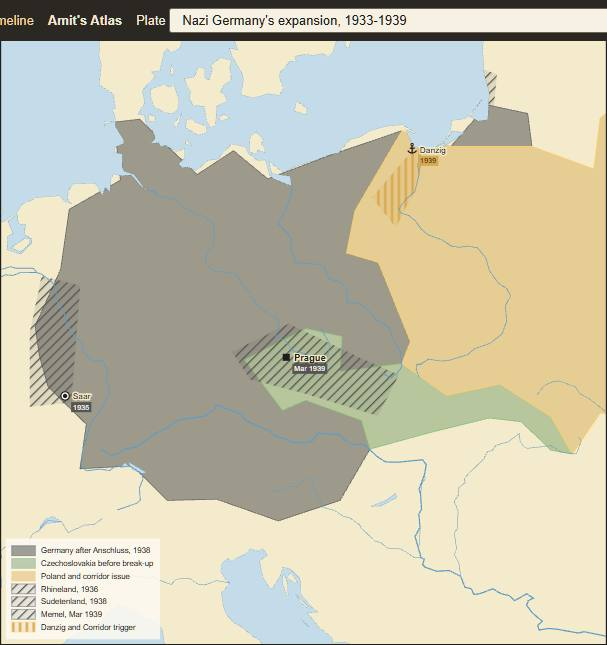
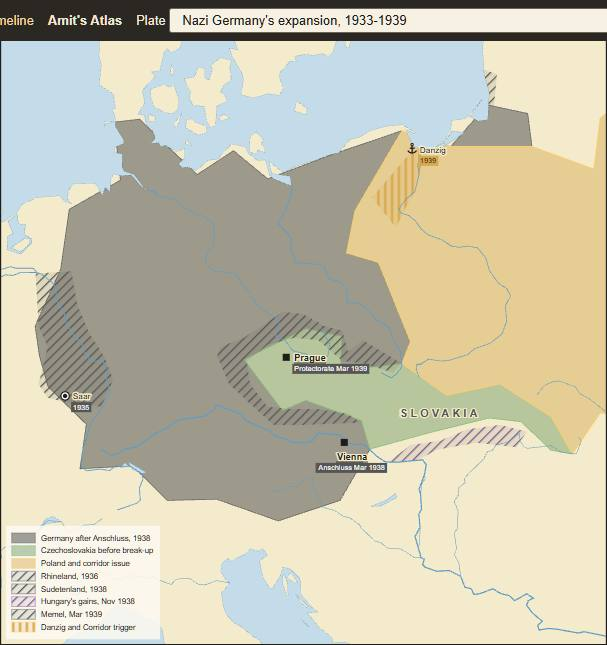
Fix round seven borders, zones and labels
Copilot-Session: 37f2f47f-8b63-49cd-b8ce-cded564ac449

diff --git a/atlas/plates/europe-alliances-road-to-war-1933-1939.js b/atlas/plates/europe-alliances-road-to-war-1933-1939.js
@@ -1,2 +1,2 @@
 // Penguin Atlas Vol. 2 round 7.
-window.PLATES["europe-alliances-road-to-war-1933-1939"] = {"id":"europe-alliances-road-to-war-1933-1939","title":"Europe's alliances and the road to war, 1933-1939","head":"Inter-war world / Road to war","folio":"164-165","viewer":"interwar2/1939/ch-road-to-war","figures":[{"caption":"Alliance systems and the 1939 crisis","share":0.75,"extent":[[-5,42],[32,58]],"projection":"mercator","layers":[{"id":"axis","type":"area","hist":{"year":1938,"names":["Germany","Italy"]},"colour":"#555555","legend":"Axis core, 1936-39"},{"id":"little-entente","type":"area","polygon":[[14.2,48.5],[20.8,50],[23.4,46.2],[20,43.8],[15,45.5],[14.2,48.5]],"smooth":false,"clipToLand":true,"pattern":"hatch","colour":"#4c78a8","legend":"Little Entente / status quo bloc"},{"id":"france","type":"area","hist":{"year":1938,"names":["France"]},"colour":"#4c78a8","opacity":0.45,"legend":"France"},{"id":"poland","type":"area","hist":{"year":1938,"names":["Poland"]},"colour":"#d8a84f","opacity":0.55,"legend":"Poland guaranteed, Mar 1939"},{"id":"soviet-sphere","type":"area","polygon":[[20.5,54.5],[27.5,55.7],[28,51],[24,49],[20.5,50],[20.5,54.5]],"smooth":false,"clipToLand":true,"pattern":"stripe","colour":"#8c3b3b","legend":"Soviet sphere in secret protocol"},{"id":"protocol-line","type":"boundary","style":"dashed","path":[[20.5,55],[23.7,52.1],[24,49]],"colour":"#8c3b3b","legend":"Molotov-Ribbentrop protocol line"},{"id":"rome-berlin","type":"arrow","colour":"#555555","path":[[12.5,41.9],[13.4,52.52]]},{"id":"franco-soviet","type":"arrow","colour":"#4c78a8","path":[[2.35,48.86],[37.62,55.75]],"label":"Franco-Soviet pact 1935"},{"id":"munich","type":"point","symbol":"treaty","at":[11.58,48.14],"name":"Munich","tag":{"text":"1938","colour":"#666"}},{"id":"guarantee","type":"arrow","colour":"#4c78a8","path":[[-0.13,51.51],[21.01,52.23]],"label":"guarantee to Poland"},{"id":"mrp","type":"point","symbol":"treaty","at":[37.62,55.75],"name":"Molotov-Ribbentrop","tag":{"text":"Aug 1939","colour":"#8c3b3b"}},{"id":"danzig","type":"point","symbol":"port","at":[18.65,54.35],"name":"Danzig"}],"legend":{"position":"bottom-left","columns":1}},{"caption":"1939 crisis sequence","kind":"diagram","share":0.25,"diagram":{"height":0.56,"nodes":[{"id":"a1","label":"Mar\nPrague","x":0.15,"y":0.35,"w":0.18,"h":0.14,"colour":"#555555"},{"id":"a2","label":"Mar\nPoland guarantee","x":0.4,"y":0.35,"w":0.24,"h":0.14,"colour":"#4c78a8"},{"id":"a3","label":"Aug\nNazi-Soviet pact","x":0.68,"y":0.35,"w":0.26,"h":0.14,"colour":"#8c3b3b"},{"id":"a4","label":"Sep\nwar","x":0.9,"y":0.35,"w":0.14,"h":0.14,"colour":"#555555"}],"arrows":[]}}],"text":{"intro":"Axis alignment, the Little Entente, the Franco-Soviet pact, Munich, the guarantee to Poland and the Nazi-Soviet pact with its secret protocol turn crisis into war.","sections":[{"heading":"Road to war","entries":[{"date":"1933-1939","text":"Axis alignment, the Little Entente, the Franco-Soviet pact, Munich, the guarantee to Poland and the Nazi-Soviet pact with its secret protocol turn crisis into war.","refs":["axis","little-entente","france","poland","soviet-sphere","protocol-line","rome-berlin","franco-soviet","munich","guarantee","mrp","danzig","a1","a2","a3","a4"]}]}]},"sources":["Penguin Atlas Vol. 2 pp. 164-165; historical-basemaps world_1938. Soviet sphere and Little Entente are hard-edged schematic polygons."]};
+window.PLATES["europe-alliances-road-to-war-1933-1939"] = {"id":"europe-alliances-road-to-war-1933-1939","title":"Europe's alliances and the road to war, 1933-1939","head":"Inter-war world / Road to war","folio":"164-165","viewer":"interwar2/1939/ch-road-to-war","figures":[{"caption":"Alliance systems and the 1939 crisis","share":0.75,"extent":[[-6,40],[40,64]],"projection":"mercator","layers":[{"id":"axis","type":"area","hist":{"year":1938,"names":["Germany","Italy"]},"colour":"#555555","legend":"Axis core, 1936-39"},{"id":"little-entente","type":"area","pattern":"hatch","colour":"#4c78a8","legend":"Little Entente","hist":{"year":1938,"names":["Czechoslovakia","Romania","Yugoslavia"]}},{"id":"france","type":"area","hist":{"year":1938,"names":["France"]},"colour":"#4c78a8","opacity":0.45,"legend":"France"},{"id":"poland","type":"area","hist":{"year":1938,"names":["Poland"]},"colour":"#d8a84f","opacity":0.55,"legend":"Poland guaranteed, Mar 1939"},{"id":"soviet-sphere","type":"area","polygon":[[21.6,53.45],[21.9,53.2],[21.1,52.7],[21,52.25],[21.4,51.6],[21.75,50.7],[22.3,50.4],[22.8,49.8],[22.6,49.1],[24,48.6],[25.3,48],[26.6,48.3],[27.4,50.5],[27,51.6],[27.5,53.5],[26.6,55.2],[23.5,54],[22.8,54.4],[21.6,53.45]],"smooth":false,"clipToLand":true,"pattern":"stripe","colour":"#8c3b3b","legend":"Soviet sphere, secret protocol"},{"id":"soviet-sphere-north","type":"area","hist":{"year":1938,"names":["Finland","Estonia","Latvia"]},"pattern":"stripe","colour":"#8c3b3b"},{"id":"bessarabia","type":"area","polygon":[[26.6,48.3],[28.2,48.5],[29.2,47.9],[30,46.5],[29.7,45.3],[28.2,45.5],[28,46.6],[27.2,47.8],[26.6,48.3]],"smooth":false,"clipToLand":true,"pattern":"stripe","colour":"#8c3b3b"},{"id":"protocol-line","type":"boundary","style":"dashed","path":[[21.9,53.2],[21.1,52.7],[21,52.25],[21.4,51.6],[21.75,50.7],[22.3,50.4],[22.8,49.8],[22.6,49.1]],"colour":"#8c3b3b","legend":"Molotov-Ribbentrop protocol line"},{"id":"munich","type":"point","symbol":"treaty","at":[11.58,48.14],"name":"Munich","tag":{"text":"1938","colour":"#666"},"labelPos":"e"},{"id":"danzig","type":"point","symbol":"port","at":[18.65,54.35],"name":"Danzig","labelPos":"n"},{"id":"rome","type":"point","symbol":"capital","at":[12.5,41.9],"name":"Rome","labelPos":"e","tag":{"text":"Axis Oct 1936","colour":"#555555"}},{"id":"paris","type":"point","symbol":"capital","at":[2.35,48.86],"name":"Paris","labelPos":"e","tag":{"text":"Franco-Soviet pact 1935","colour":"#4c78a8"}},{"id":"london","type":"point","symbol":"capital","at":[-0.13,51.51],"name":"London","labelPos":"e","tag":{"text":"guarantee Mar 1939","colour":"#4c78a8"}},{"id":"moscow","type":"point","symbol":"treaty","at":[37.62,55.75],"name":"Moscow","labelPos":"w","tag":{"text":"Nazi-Soviet pact Aug 1939","colour":"#8c3b3b"}}],"legend":{"position":"bottom-right","columns":1}},{"caption":"1939 crisis sequence","kind":"diagram","share":0.25,"diagram":{"height":0.56,"nodes":[{"id":"a1","label":"Mar\nPrague","x":0.15,"y":0.35,"w":0.18,"h":0.14,"colour":"#555555"},{"id":"a2","label":"Mar\nPoland guarantee","x":0.4,"y":0.35,"w":0.24,"h":0.14,"colour":"#4c78a8"},{"id":"a3","label":"Aug\nNazi-Soviet pact","x":0.68,"y":0.35,"w":0.26,"h":0.14,"colour":"#8c3b3b"},{"id":"a4","label":"Sep\nwar","x":0.9,"y":0.35,"w":0.14,"h":0.14,"colour":"#555555"}],"arrows":[]}}],"text":{"intro":"Axis alignment, the Little Entente, the Franco-Soviet pact, Munich, the guarantee to Poland and the Nazi-Soviet pact with its secret protocol turn crisis into war.","sections":[{"heading":"Road to war","entries":[{"date":"1933-1939","text":"Axis alignment, the Little Entente, the Franco-Soviet pact, Munich, the guarantee to Poland and the Nazi-Soviet pact with its secret protocol turn crisis into war.","refs":["axis","little-entente","france","poland","soviet-sphere","protocol-line","munich","danzig","a1","a2","a3","a4"]}]}]},"sources":["Penguin Atlas Vol. 2 pp. 164-165; historical-basemaps world_1938. Soviet sphere and Little Entente are hard-edged schematic polygons."]};

diff --git a/atlas/plates/nazi-germany-expansion-1933-1939.js b/atlas/plates/nazi-germany-expansion-1933-1939.js
@@ -1,2 +1,2 @@
 // Penguin Atlas Vol. 2 round 7.
-window.PLATES["nazi-germany-expansion-1933-1939"] = {"id":"nazi-germany-expansion-1933-1939","title":"Nazi Germany's expansion, 1933-1939","head":"Inter-war world / Germany","folio":"194-197","viewer":"interwar2/1938/ch-nazi-expansion","figures":[{"caption":"Stepwise expansion before the Polish crisis","share":0.75,"extent":[[5,45],[25,56]],"projection":"mercator","layers":[{"id":"germany-1938","type":"area","hist":{"year":1938,"names":["Germany"]},"colour":"#555555","legend":"Germany after Anschluss, 1938"},{"id":"czechoslovakia","type":"area","hist":{"year":1938,"names":["Czechoslovakia"]},"colour":"#6f9a63","opacity":0.45,"legend":"Czechoslovakia before break-up"},{"id":"poland","type":"area","hist":{"year":1938,"names":["Poland"]},"colour":"#d8a84f","opacity":0.45,"legend":"Poland and corridor issue"},{"id":"saar","type":"point","symbol":"treaty","at":[6.99,49.24],"name":"Saar","tag":{"text":"1935","colour":"#555555"}},{"id":"rhineland","type":"area","polygon":[[5.8,49],[7.2,49.1],[7.5,51.6],[6.2,51.8],[5.8,50.6],[5.8,49]],"smooth":false,"clipToLand":true,"pattern":"hatch","colour":"#555555","legend":"Rhineland, 1936"},{"id":"sudeten","type":"area","polygon":[[12.6,50.2],[14.5,50.8],[16.8,50.1],[18.2,49.7],[17.5,48.8],[15,49.3],[13.2,49.6],[12.6,50.2]],"smooth":false,"clipToLand":true,"pattern":"hatch","colour":"#555555","legend":"Sudetenland, 1938"},{"id":"memel","type":"area","polygon":[[20.9,55.2],[21.4,55.2],[21.5,55.8],[21,55.9],[20.9,55.2]],"smooth":false,"clipToLand":true,"pattern":"hatch","colour":"#555555","legend":"Memel, Mar 1939"},{"id":"corridor","type":"area","polygon":[[17.3,53.4],[19.2,54.7],[18.8,53.6],[18.1,52.8],[17.3,53.4]],"smooth":false,"clipToLand":true,"pattern":"stripe","colour":"#d8a84f","legend":"Danzig and Corridor trigger"},{"id":"prague","type":"point","symbol":"capital","at":[14.42,50.08],"name":"Prague","tag":{"text":"Mar 1939","colour":"#555555"}},{"id":"danzig","type":"point","symbol":"port","at":[18.65,54.35],"name":"Danzig","tag":{"text":"1939","colour":"#d8a84f"}}],"legend":{"position":"bottom-left","columns":1}},{"caption":"Escalation ladder","kind":"diagram","share":0.25,"diagram":{"height":0.56,"nodes":[{"id":"n1","label":"1935\nSaar","x":0.12,"y":0.35,"w":0.16,"h":0.14,"colour":"#555555"},{"id":"n2","label":"1936\nRhineland","x":0.32,"y":0.35,"w":0.18,"h":0.14,"colour":"#555555"},{"id":"n3","label":"Mar 1938\nAnschluss","x":0.54,"y":0.35,"w":0.2,"h":0.14,"colour":"#555555"},{"id":"n4","label":"1938-39\nCzechoslovakia","x":0.8,"y":0.35,"w":0.24,"h":0.14,"colour":"#555555"}],"arrows":[]}}],"text":{"intro":"Saar, Rhineland, Anschluss, Sudetenland, Prague, Memel and the Danzig/Corridor trigger show expansion step by step.","sections":[{"heading":"Germany","entries":[{"date":"1933-1939","text":"Saar, Rhineland, Anschluss, Sudetenland, Prague, Memel and the Danzig/Corridor trigger show expansion step by step.","refs":["germany-1938","czechoslovakia","poland","saar","rhineland","sudeten","memel","corridor","prague","danzig","n1","n2","n3","n4"]}]}]},"sources":["Penguin Atlas Vol. 2 pp. 194-197; historical-basemaps world_1938 checked for Germany, Czechoslovakia and Poland."]};
+window.PLATES["nazi-germany-expansion-1933-1939"] = {"id":"nazi-germany-expansion-1933-1939","title":"Nazi Germany's expansion, 1933-1939","head":"Inter-war world / Germany","folio":"194-197","viewer":"interwar2/1938/ch-nazi-expansion","figures":[{"caption":"Stepwise expansion before the Polish crisis","share":0.75,"extent":[[5,45],[25,56]],"projection":"mercator","layers":[{"id":"germany-1938","type":"area","hist":{"year":1938,"names":["Germany"]},"colour":"#555555","legend":"Germany after Anschluss, 1938"},{"id":"czechoslovakia","type":"area","hist":{"year":1938,"names":["Czechoslovakia"]},"colour":"#6f9a63","opacity":0.45,"legend":"Czechoslovakia before break-up"},{"id":"poland","type":"area","hist":{"year":1938,"names":["Poland"]},"colour":"#d8a84f","opacity":0.45,"legend":"Poland and corridor issue"},{"id":"saar","type":"point","symbol":"treaty","at":[6.99,49.24],"name":"Saar","tag":{"text":"1935","colour":"#555555"}},{"id":"rhineland","type":"area","polygon":[[6.4,49.2],[7,49.1],[8.2,49],[8.6,49.6],[8.3,50.1],[7.8,50.6],[7.4,51.2],[7.2,51.9],[6,51.85],[6.1,50.75],[6.4,50.3],[6.1,49.5],[6.4,49.2]],"smooth":false,"clipToLand":true,"pattern":"hatch","colour":"#555555","legend":"Rhineland, 1936"},{"id":"sudeten","type":"area","polygon":[[16.9,48.65],[15,48.6],[14,48.6],[13.4,48.95],[12.5,49.5],[12.1,50.1],[12.2,50.3],[13,50.5],[14.3,51.05],[15,51],[15.7,50.75],[16.3,50.65],[16.5,50.2],[17,50.45],[17.9,50.1],[18.3,49.95],[18,49.75],[17,49.95],[16.3,50],[15.5,50.45],[14.7,50.5],[13.8,50.35],[13.1,50],[13.2,49.5],[13.8,49],[14.6,48.95],[15.5,48.95],[16.5,48.85],[16.9,48.65]],"smooth":false,"clipToLand":true,"pattern":"hatch","colour":"#555555","legend":"Sudetenland, 1938"},{"id":"vienna-award","type":"area","polygon":[[17.8,47.75],[18.6,48.15],[19.6,48.25],[20.5,48.5],[21.6,48.6],[22.5,48.45],[22.15,48.1],[20.8,48.2],[19.5,48.05],[18.8,47.8],[17.8,47.75]],"smooth":false,"clipToLand":true,"pattern":"hatch","colour":"#7a5a8c","legend":"Hungary's gains, Nov 1938"},{"id":"memel","type":"area","polygon":[[20.9,55.2],[21.4,55.2],[21.5,55.8],[21,55.9],[20.9,55.2]],"smooth":false,"clipToLand":true,"pattern":"hatch","colour":"#555555","legend":"Memel, Mar 1939"},{"id":"corridor","type":"area","polygon":[[17.3,53.4],[19.2,54.7],[18.8,53.6],[18.1,52.8],[17.3,53.4]],"smooth":false,"clipToLand":true,"pattern":"stripe","colour":"#d8a84f","legend":"Danzig and Corridor trigger"},{"id":"prague","type":"point","symbol":"capital","at":[14.42,50.08],"name":"Prague","tag":{"text":"Protectorate Mar 1939","colour":"#555555"}},{"id":"danzig","type":"point","symbol":"port","at":[18.65,54.35],"name":"Danzig","tag":{"text":"1939","colour":"#d8a84f"}},{"id":"vienna","type":"point","symbol":"capital","at":[16.37,48.21],"name":"Vienna","labelPos":"s","tag":{"text":"Anschluss Mar 1938","colour":"#555555"}},{"id":"slovakia","type":"label","style":"region","text":"Slovakia","at":[19.6,48.85],"colour":"#555"}],"legend":{"position":"bottom-left","columns":1}},{"caption":"Escalation ladder","kind":"diagram","share":0.25,"diagram":{"height":0.56,"nodes":[{"id":"n1","label":"1935\nSaar","x":0.12,"y":0.35,"w":0.16,"h":0.14,"colour":"#555555"},{"id":"n2","label":"1936\nRhineland","x":0.32,"y":0.35,"w":0.18,"h":0.14,"colour":"#555555"},{"id":"n3","label":"Mar 1938\nAnschluss","x":0.54,"y":0.35,"w":0.2,"h":0.14,"colour":"#555555"},{"id":"n4","label":"1938-39\nCzechoslovakia","x":0.8,"y":0.35,"w":0.24,"h":0.14,"colour":"#555555"}],"arrows":[]}}],"text":{"intro":"Saar, Rhineland, Anschluss, Sudetenland, Prague, Memel and the Danzig/Corridor trigger show expansion step by step.","sections":[{"heading":"Germany","entries":[{"date":"1933-1939","text":"Saar, Rhineland, Anschluss, Sudetenland, Prague, Memel and the Danzig/Corridor trigger show expansion step by step.","refs":["germany-1938","czechoslovakia","poland","saar","rhineland","sudeten","memel","corridor","prague","danzig","n1","n2","n3","n4"]}]}]},"sources":["Penguin Atlas Vol. 2 pp. 194-197; historical-basemaps world_1938 checked for Germany, Czechoslovakia and Poland."]};

diff --git a/atlas/plates/japan-expansion-1931-1939.js b/atlas/plates/japan-expansion-1931-1939.js
@@ -1,2 +1,2 @@
 // Penguin Atlas Vol. 2 round 7.
-window.PLATES["japan-expansion-1931-1939"] = {"id":"japan-expansion-1931-1939","title":"Japan's expansion, 1931-1939","head":"Inter-war world / Japan","folio":"172-175","viewer":"interwar2/1937/ch-japan-expansion","figures":[{"caption":"Manchukuo, China war and the Soviet border","share":0.75,"extent":[[103,18],[146,54]],"projection":"naturalEarth","layers":[{"id":"japan-empire","type":"area","hist":{"year":1938,"names":["Empire of Japan"]},"colour":"#c98b2c","legend":"Japanese Empire / Manchukuo by 1938"},{"id":"jehol","type":"area","polygon":[[116.2,40.2],[119.5,42.5],[121.5,41.3],[119.2,39.8],[116.2,40.2]],"smooth":false,"clipToLand":true,"pattern":"hatch","colour":"#c98b2c","legend":"Jehol occupied, 1933"},{"id":"coastal-occupation","type":"area","polygon":[[117,39],[121.5,40],[122,37],[121,31],[119,29],[121,25],[118,23],[114,23.5],[116,31],[116,36],[117,39]],"smooth":false,"clipToLand":true,"pattern":"stripe","colour":"#c98b2c","legend":"Coastal occupation by 1938"},{"id":"long-march","type":"route","style":"dashed","colour":"#8c3b3b","path":[[116.03,25.89],[111,28],[105,32],[109.49,36.6]],"label":"Long March 1934-35"},{"id":"marco-polo","type":"point","symbol":"battle","at":[116.41,39.9],"name":"Marco Polo Bridge","tag":{"text":"Jul 1937","colour":"#c98b2c"}},{"id":"nanjing","type":"point","symbol":"battle","at":[118.8,32.06],"name":"Nanjing","tag":{"text":"Dec 1937","colour":"#c98b2c"}},{"id":"shanghai","type":"point","symbol":"battle","at":[121.47,31.23],"name":"Shanghai"},{"id":"wuhan","type":"point","symbol":"battle","at":[114.31,30.59],"name":"Wuhan"},{"id":"nomonhan","type":"point","symbol":"battle","at":[118.6,47.72],"name":"Khalkhin Gol","tag":{"text":"1939","colour":"#8c3b3b"}},{"id":"push","type":"arrow","colour":"#c98b2c","path":[[123.43,41.8],[116.41,39.9],[118.8,32.06],[114.31,30.59]],"label":"Japanese advance"}],"legend":{"position":"bottom-left","columns":1}},{"caption":"Escalation in East Asia","kind":"diagram","share":0.25,"diagram":{"height":0.56,"nodes":[{"id":"j1","label":"1931\nMukden","x":0.14,"y":0.35,"w":0.18,"h":0.14,"colour":"#c98b2c"},{"id":"j2","label":"1932\nManchukuo","x":0.36,"y":0.35,"w":0.2,"h":0.14,"colour":"#c98b2c"},{"id":"j3","label":"1937\nChina war","x":0.6,"y":0.35,"w":0.2,"h":0.14,"colour":"#c98b2c"},{"id":"j4","label":"1939\nKhalkhin Gol","x":0.84,"y":0.35,"w":0.22,"h":0.14,"colour":"#8c3b3b"}],"arrows":[]}}],"text":{"intro":"Japan seizes Manchuria, adds Jehol, pushes down the Chinese coast, while the Long March relocates the Communists and Khalkhin Gol checks Japan against the USSR.","sections":[{"heading":"Japan","entries":[{"date":"1931-1939","text":"Japan seizes Manchuria, adds Jehol, pushes down the Chinese coast, while the Long March relocates the Communists and Khalkhin Gol checks Japan against the USSR.","refs":["japan-empire","jehol","coastal-occupation","long-march","marco-polo","nanjing","shanghai","wuhan","nomonhan","push","j1","j2","j3","j4"]}]}]},"sources":["Penguin Atlas Vol. 2 pp. 172-175; historical-basemaps world_1938. Coastal occupation and Jehol are hard-edged schematic clipped polygons."]};
+window.PLATES["japan-expansion-1931-1939"] = {"id":"japan-expansion-1931-1939","title":"Japan's expansion, 1931-1939","head":"Inter-war world / Japan","folio":"172-175","viewer":"interwar2/1937/ch-japan-expansion","figures":[{"caption":"Manchukuo, China war and the Soviet border","share":0.75,"extent":[[98,18],[146,54]],"projection":"naturalEarth","layers":[{"id":"japan-empire","type":"area","hist":{"year":1938,"names":["Empire of Japan"]},"colour":"#c98b2c","legend":"Japanese Empire / Manchukuo by 1938"},{"id":"jehol","type":"area","polygon":[[116.2,40.2],[119.5,42.5],[121.5,41.3],[119.2,39.8],[116.2,40.2]],"smooth":false,"clipToLand":true,"pattern":"hatch","colour":"#c98b2c","legend":"Jehol occupied, 1933"},{"id":"coastal-occupation","type":"area","polygon":[[114,41],[119.5,40],[122.5,37.5],[120.5,36],[119.2,35],[117.5,34.3],[116.5,34.5],[114.5,34.7],[113,35.5],[112,37.5],[112.5,39],[114,41]],"smooth":false,"clipToLand":true,"pattern":"stripe","colour":"#c98b2c","legend":"Occupied China by end 1938"},{"id":"occ-yangtze","type":"area","polygon":[[117.5,34.3],[119.2,35],[120.5,33],[121.9,31.7],[121.8,30.8],[120.5,30.2],[119,30.5],[117,30.2],[115.5,29.8],[114,30],[113.5,30.7],[114.5,31.3],[116.5,32.5],[117.5,34.3]],"smooth":false,"clipToLand":true,"pattern":"stripe","colour":"#c98b2c"},{"id":"occ-canton","type":"area","polygon":[[112.8,23.6],[113.8,23.5],[114.3,22.6],[113.6,22.2],[112.9,22.6],[112.8,23.6]],"smooth":false,"clipToLand":true,"pattern":"stripe","colour":"#c98b2c"},{"id":"long-march","type":"route","style":"dashed","colour":"#8c3b3b","path":[[116.03,25.89],[110.5,25.5],[106.93,27.7],[103,26.5],[102.23,29.92],[103.5,33.5],[106,35.5],[109.49,36.6]],"label":"Long March 1934-35"},{"id":"marco-polo","type":"point","symbol":"battle","at":[116.41,39.9],"name":"Marco Polo Bridge","tag":{"text":"Jul 1937","colour":"#c98b2c"}},{"id":"nanjing","type":"point","symbol":"battle","at":[118.8,32.06],"name":"Nanjing","tag":{"text":"Dec 1937","colour":"#c98b2c"},"labelPos":"w"},{"id":"shanghai","type":"point","symbol":"battle","at":[121.47,31.23],"name":"Shanghai"},{"id":"wuhan","type":"point","symbol":"battle","at":[114.31,30.59],"name":"Wuhan"},{"id":"nomonhan","type":"point","symbol":"battle","at":[118.6,47.72],"name":"Khalkhin Gol","tag":{"text":"1939","colour":"#8c3b3b"}},{"id":"push","type":"arrow","colour":"#c98b2c","path":[[123.43,41.8],[116.41,39.9],[118.8,32.06],[114.31,30.59]],"label":"Japanese advance"},{"id":"yanan","type":"point","symbol":"city","at":[109.49,36.6],"name":"Yan'an","labelPos":"e"}],"legend":{"position":"bottom-left","columns":1}},{"caption":"Escalation in East Asia","kind":"diagram","share":0.25,"diagram":{"height":0.56,"nodes":[{"id":"j1","label":"1931\nMukden","x":0.14,"y":0.35,"w":0.18,"h":0.14,"colour":"#c98b2c"},{"id":"j2","label":"1932\nManchukuo","x":0.36,"y":0.35,"w":0.2,"h":0.14,"colour":"#c98b2c"},{"id":"j3","label":"1937\nChina war","x":0.6,"y":0.35,"w":0.2,"h":0.14,"colour":"#c98b2c"},{"id":"j4","label":"1939\nKhalkhin Gol","x":0.84,"y":0.35,"w":0.22,"h":0.14,"colour":"#8c3b3b"}],"arrows":[]}}],"text":{"intro":"Japan seizes Manchuria, adds Jehol, pushes down the Chinese coast, while the Long March relocates the Communists and Khalkhin Gol checks Japan against the USSR.","sections":[{"heading":"Japan","entries":[{"date":"1931-1939","text":"Japan seizes Manchuria, adds Jehol, pushes down the Chinese coast, while the Long March relocates the Communists and Khalkhin Gol checks Japan against the USSR.","refs":["japan-empire","jehol","coastal-occupation","long-march","marco-polo","nanjing","shanghai","wuhan","nomonhan","push","j1","j2","j3","j4"]}]}]},"sources":["Penguin Atlas Vol. 2 pp. 172-175; historical-basemaps world_1938. Coastal occupation and Jehol are hard-edged schematic clipped polygons."]};

diff --git a/atlas/plates/spanish-civil-war-1936-1939.js b/atlas/plates/spanish-civil-war-1936-1939.js
@@ -1,2 +1,2 @@
 // Penguin Atlas Vol. 2 round 7.
-window.PLATES["spanish-civil-war-1936-1939"] = {"id":"spanish-civil-war-1936-1939","title":"The Spanish Civil War, 1936-1939","head":"Inter-war world / Spain","folio":"160-161","viewer":"interwar2/1937/ch-spanish-civil-war","figures":[{"caption":"Civil war zones and foreign intervention","share":0.75,"extent":[[-10,35],[4,44]],"projection":"mercator","layers":[{"id":"spain","type":"area","hist":{"year":1938,"names":["Spain"]},"colour":"#d8a84f","opacity":0.25,"legend":"Spain, 1938 context"},{"id":"nationalist-1936","type":"area","polygon":[[-9,36.5],[-6,43.5],[-3.5,43.4],[-5.6,41.8],[-6,38],[-9,36.5],[2.5,39],[0.5,41.7],[3,42.5],[2.6,39]],"smooth":false,"clipToLand":true,"colour":"#8c5a3b","legend":"Nationalist zones, July 1936"},{"id":"republic-1938","type":"area","polygon":[[-4,39.5],[-2,41.5],[1.8,42],[2.8,40.8],[0.5,39.5],[-1.5,38.5],[-4,39.5]],"smooth":false,"clipToLand":true,"colour":"#d8a84f","legend":"Republican zone by 1938"},{"id":"madrid","type":"point","symbol":"battle","at":[-3.7,40.42],"name":"Madrid","labelPos":"e"},{"id":"guernica","type":"point","symbol":"battle","at":[-2.68,43.32],"name":"Guernica","tag":{"text":"Condor Legion 1937","colour":"#555555"}},{"id":"ebro","type":"point","symbol":"battle","at":[0.49,41.05],"name":"Ebro"},{"id":"barcelona","type":"point","symbol":"large-city","at":[2.17,41.38],"name":"Barcelona","tag":{"text":"Jan 1939","colour":"#8c5a3b"}},{"id":"macpaps","type":"point","symbol":"battle","at":[-3.7,40.42],"name":"Mac-Paps","labelPos":"w","tag":{"text":"Canada","colour":"#b22d2d"}}],"legend":{"position":"bottom-left","columns":1}},{"caption":"Foreign intervention","kind":"diagram","share":0.25,"diagram":{"height":0.56,"nodes":[{"id":"rebels","label":"Nationalists\nFranco","x":0.2,"y":0.35,"w":0.22,"h":0.14,"colour":"#8c5a3b"},{"id":"axishelp","label":"Germany + Italy\naircraft / troops","x":0.5,"y":0.35,"w":0.25,"h":0.14,"colour":"#555555"},{"id":"republic","label":"Republic\nBrigades + USSR","x":0.8,"y":0.35,"w":0.24,"h":0.14,"colour":"#d8a84f"}],"arrows":[]}}],"text":{"intro":"Nationalist zones expand as Madrid, Guernica, the Ebro and Barcelona mark the war; Germany, Italy, Soviet aid, International Brigades and the Mackenzie-Papineau Battalion make it international.","sections":[{"heading":"Spain","entries":[{"date":"1936-1939","text":"Nationalist zones expand as Madrid, Guernica, the Ebro and Barcelona mark the war; Germany, Italy, Soviet aid, International Brigades and the Mackenzie-Papineau Battalion make it international.","refs":["spain","nationalist-1936","republic-1938","madrid","guernica","ebro","barcelona","macpaps","rebels","axishelp","republic"]}]}]},"sources":["Penguin Atlas Vol. 2 pp. 160-161; historical-basemaps world_1938. Front zones are schematic hard polygons."]};
+window.PLATES["spanish-civil-war-1936-1939"] = {"id":"spanish-civil-war-1936-1939","title":"The Spanish Civil War, 1936-1939","head":"Inter-war world / Spain","folio":"160-161","viewer":"interwar2/1937/ch-spanish-civil-war","figures":[{"caption":"Civil war zones and foreign intervention","share":0.75,"extent":[[-10,35],[4,44]],"projection":"mercator","layers":[{"id":"spain","type":"area","hist":{"year":1938,"names":["Spain"]},"colour":"#d8a84f","opacity":0.25,"legend":"Spain, 1938 context"},{"id":"nationalist-1936","type":"area","polygon":[[-9.3,43.2],[-8.9,42],[-7,41.9],[-6.8,41],[-6.9,40.2],[-6,39.5],[-5.2,40.1],[-4.2,40.6],[-3.8,41],[-3,41.3],[-2.3,41],[-1.5,40.3],[-0.8,40.5],[-0.4,41.6],[-0.2,42],[-1,42.8],[-1.4,43.1],[-1.8,43.3],[-2.5,42.9],[-3.3,43],[-3.9,42.9],[-4.8,43],[-6,43],[-6.8,43.4],[-7.5,43.75],[-8.3,43.6],[-9.3,43.2]],"smooth":false,"clipToLand":true,"colour":"#8c5a3b","legend":"Nationalist zones, July 1936"},{"id":"nationalist-1936-south","type":"area","polygon":[[-7.4,37.2],[-6.4,36.8],[-6,36.2],[-5.6,36],[-5,36.4],[-4.6,36.7],[-5.3,37.4],[-5,37.9],[-6,38],[-7.3,38.1],[-7.4,37.2]],"smooth":false,"clipToLand":true,"colour":"#8c5a3b"},{"id":"republic-1938","type":"area","polygon":[[-4.1,40.5],[-3,40.9],[-1.6,40.4],[-0.6,40.2],[0,40],[-0.3,39.4],[0.2,38.8],[-0.5,38.2],[-0.9,37.6],[-1.6,37.3],[-2.4,36.8],[-3.2,36.75],[-3.6,37.5],[-4.4,38.2],[-5,38.6],[-5.3,39.3],[-4.6,40.1],[-4.1,40.5]],"smooth":false,"clipToLand":true,"colour":"#d8a84f","legend":"Republican zones after the April 1938 split","pattern":"hatch"},{"id":"republic-1938-cat","type":"area","polygon":[[0.2,42.7],[3.2,42.4],[3.2,41.8],[2,41.2],[0.8,40.7],[0.3,41],[0.4,41.5],[0.2,42.7]],"smooth":false,"clipToLand":true,"pattern":"hatch","colour":"#d8a84f"},{"id":"madrid","type":"point","symbol":"battle","at":[-3.7,40.42],"name":"Madrid","labelPos":"e","tag":{"text":"besieged 1936-39","colour":"#d8a84f"}},{"id":"guernica","type":"point","symbol":"battle","at":[-2.68,43.32],"name":"Guernica","tag":{"text":"Condor Legion 1937","colour":"#555555"}},{"id":"ebro","type":"point","symbol":"battle","at":[0.49,41.05],"name":"Ebro","tag":{"text":"1938: Mac-Paps (Canada)","colour":"#b22d2d"},"labelPos":"w"},{"id":"barcelona","type":"point","symbol":"large-city","at":[2.17,41.38],"name":"Barcelona","tag":{"text":"Jan 1939","colour":"#8c5a3b"}},{"id":"army-africa","type":"arrow","colour":"#8c5a3b","path":[[-5.98,37.39],[-6.34,38.92],[-4.83,39.96],[-4,40.3]],"label":"Army of Africa 1936"}],"legend":{"position":"bottom-left","columns":1}},{"caption":"Foreign intervention","kind":"diagram","share":0.25,"diagram":{"height":0.56,"nodes":[{"id":"rebels","label":"Nationalists\nFranco","x":0.2,"y":0.35,"w":0.22,"h":0.14,"colour":"#8c5a3b"},{"id":"axishelp","label":"Germany + Italy\naircraft / troops","x":0.5,"y":0.35,"w":0.25,"h":0.14,"colour":"#555555"},{"id":"republic","label":"Republic\nBrigades + USSR","x":0.8,"y":0.35,"w":0.24,"h":0.14,"colour":"#d8a84f"}],"arrows":[]}}],"text":{"intro":"Nationalist zones expand as Madrid, Guernica, the Ebro and Barcelona mark the war; Germany, Italy, Soviet aid, International Brigades and the Mackenzie-Papineau Battalion make it international.","sections":[{"heading":"Spain","entries":[{"date":"1936-1939","text":"Nationalist zones expand as Madrid, Guernica, the Ebro and Barcelona mark the war; Germany, Italy, Soviet aid, International Brigades and the Mackenzie-Papineau Battalion make it international.","refs":["spain","nationalist-1936","republic-1938","madrid","guernica","ebro","barcelona","rebels","axishelp","republic"]}]}]},"sources":["Penguin Atlas Vol. 2 pp. 160-161; historical-basemaps world_1938. Front zones are schematic hard polygons."]};

diff --git a/atlas/plates/stalin-ussr-1928-1939.js b/atlas/plates/stalin-ussr-1928-1939.js
@@ -1,2 +1,2 @@
 // Penguin Atlas Vol. 2 round 7.
-window.PLATES["stalin-ussr-1928-1939"] = {"id":"stalin-ussr-1928-1939","title":"Stalin's USSR, 1928-1939","head":"Inter-war world / USSR","folio":"188-189","viewer":"interwar2/1934/ch-stalin-ussr","figures":[{"caption":"Collectivisation, famine, industry and Gulag","share":0.75,"extent":[[24,35],[160,72]],"projection":"naturalEarth","layers":[{"id":"ussr","type":"area","hist":{"year":1938,"names":["USSR"]},"colour":"#8c3b3b","opacity":0.25,"legend":"USSR, 1938 context"},{"id":"holodomor","type":"area","polygon":[[26.7,46.2],[30.8,52.4],[39.8,52.1],[40.2,48],[34.5,46.2],[26.7,46.2]],"smooth":false,"clipToLand":true,"pattern":"hatch","colour":"#8c3b3b","legend":"Holodomor in Ukraine, 1932-33"},{"id":"kazakh-famine","type":"area","polygon":[[49,47],[56,53],[66,55],[76,54],[82,50],[78,45],[68,44],[58,45],[49,47]],"smooth":false,"clipToLand":true,"pattern":"stripe","colour":"#8c3b3b","legend":"Kazakh famine zone"},{"id":"p0","type":"point","symbol":"large-city","at":[59,53.42],"name":"Magnitogorsk","labelPos":"e"},{"id":"p1","type":"point","symbol":"large-city","at":[87.11,53.76],"name":"Kuznetsk","labelPos":"e"},{"id":"p2","type":"point","symbol":"large-city","at":[35.14,47.84],"name":"Dneproges","labelPos":"e"},{"id":"p3","type":"point","symbol":"large-city","at":[44.51,48.71],"name":"Stalingrad tractor","labelPos":"e"},{"id":"p4","type":"point","symbol":"large-city","at":[37.62,55.75],"name":"Moscow","labelPos":"e"},{"id":"p5","type":"point","symbol":"battle","at":[150.8,59.57],"name":"Kolyma / Magadan","labelPos":"e"},{"id":"p6","type":"point","symbol":"battle","at":[64.06,67.5],"name":"Vorkuta","labelPos":"e"},{"id":"p7","type":"point","symbol":"battle","at":[35.7,65.02],"name":"White Sea Canal / Solovki","labelPos":"e"},{"id":"p8","type":"point","symbol":"battle","at":[73.1,49.8],"name":"Karaganda","labelPos":"e"},{"id":"p9","type":"point","symbol":"battle","at":[88.2,69.35],"name":"Norilsk","labelPos":"e"}],"legend":{"position":"bottom-left","columns":1}},{"caption":"Great Terror sequence","kind":"diagram","share":0.25,"diagram":{"height":0.56,"nodes":[{"id":"kirov","label":"1934\nKirov murdered","x":0.18,"y":0.35,"w":0.24,"h":0.14,"colour":"#8c3b3b"},{"id":"trials","label":"1936-38\nshow trials","x":0.5,"y":0.35,"w":0.22,"h":0.14,"colour":"#8c3b3b"},{"id":"army","label":"1937\narmy purge","x":0.8,"y":0.35,"w":0.22,"h":0.14,"colour":"#8c3b3b"}],"arrows":[{"id":"s1","from":"kirov","to":"trials"},{"id":"s2","from":"trials","to":"army"}]}}],"text":{"intro":"Stalin’s USSR is shown through famine, industrial centres, Gulag clusters and terror.","sections":[{"heading":"USSR","entries":[{"date":"1928-1939","text":"Stalin’s USSR is shown through famine, industrial centres, Gulag clusters and terror.","refs":["ussr","holodomor","kazakh-famine","p0","p1","p2","p3","p4","p5","p6","p7","p8","p9","kirov","trials","army","s1","s2"]}]}]},"sources":["Penguin Atlas Vol. 2 pp. 188-189; historical-basemaps world_1938. Ukraine and Kazakh famine zones are hard-edged clipped polygons."]};
+window.PLATES["stalin-ussr-1928-1939"] = {"id":"stalin-ussr-1928-1939","title":"Stalin's USSR, 1928-1939","head":"Inter-war world / USSR","folio":"188-189","viewer":"interwar2/1934/ch-stalin-ussr","figures":[{"caption":"Collectivisation, famine, industry and Gulag","share":0.6,"extent":[[24,38],[160,72]],"projection":"naturalEarth","layers":[{"id":"ussr","type":"area","hist":{"year":1938,"names":["USSR"]},"colour":"#8c3b3b","opacity":0.25,"legend":"USSR, 1938 context"},{"id":"holodomor","type":"area","polygon":[[26.7,46.2],[30.8,52.4],[39.8,52.1],[40.2,48],[34.5,46.2],[26.7,46.2]],"smooth":false,"clipToLand":true,"pattern":"hatch","colour":"#8c3b3b","legend":"Holodomor in Ukraine, 1932-33"},{"id":"kazakh-famine","type":"area","polygon":[[49,47],[56,53],[66,55],[76,54],[82,50],[78,45],[68,44],[58,45],[49,47]],"smooth":false,"clipToLand":true,"pattern":"stripe","colour":"#8c3b3b","legend":"Kazakh famine zone"},{"id":"p0","type":"point","symbol":"large-city","at":[59,53.42],"name":"Magnitogorsk","labelPos":"e"},{"id":"p1","type":"point","symbol":"large-city","at":[87.11,53.76],"name":"Kuznetsk","labelPos":"e"},{"id":"p2","type":"point","symbol":"large-city","at":[35.14,47.84],"name":"Dneproges","labelPos":"w"},{"id":"p3","type":"point","symbol":"large-city","at":[44.51,48.71],"name":"Stalingrad tractor","labelPos":"e"},{"id":"p4","type":"point","symbol":"capital","at":[37.62,55.75],"name":"Moscow","labelPos":"e"},{"id":"p5","type":"point","symbol":"fortress","at":[150.8,59.57],"name":"Kolyma / Magadan","labelPos":"w"},{"id":"p6","type":"point","symbol":"fortress","at":[64.06,67.5],"name":"Vorkuta","labelPos":"e"},{"id":"p7","type":"point","symbol":"fortress","at":[35.7,65.02],"name":"White Sea Canal / Solovki","labelPos":"e"},{"id":"p8","type":"point","symbol":"fortress","at":[73.1,49.8],"name":"Karaganda","labelPos":"e"},{"id":"p9","type":"point","symbol":"fortress","at":[88.2,69.35],"name":"Norilsk","labelPos":"e"}],"legend":{"position":"bottom-left","columns":1}},{"caption":"Great Terror sequence","kind":"diagram","share":0.4,"diagram":{"height":0.56,"nodes":[{"id":"kirov","label":"1934\nKirov murdered","x":0.18,"y":0.35,"w":0.24,"h":0.14,"colour":"#8c3b3b"},{"id":"trials","label":"1936-38\nshow trials","x":0.5,"y":0.35,"w":0.22,"h":0.14,"colour":"#8c3b3b"},{"id":"army","label":"1937\narmy purge","x":0.8,"y":0.35,"w":0.22,"h":0.14,"colour":"#8c3b3b"}],"arrows":[{"id":"s1","from":"kirov","to":"trials"},{"id":"s2","from":"trials","to":"army"}]}}],"text":{"intro":"Stalin’s USSR is shown through famine, industrial centres, Gulag clusters and terror.","sections":[{"heading":"USSR","entries":[{"date":"1928-1939","text":"Stalin’s USSR is shown through famine, industrial centres, Gulag clusters and terror.","refs":["ussr","holodomor","kazakh-famine","p0","p1","p2","p3","p4","p5","p6","p7","p8","p9","kirov","trials","army","s1","s2"]}]}]},"sources":["Penguin Atlas Vol. 2 pp. 188-189; historical-basemaps world_1938. Ukraine and Kazakh famine zones are hard-edged clipped polygons."]};

diff --git a/atlas/plates/great-depression-worldwide-1929-1933.js b/atlas/plates/great-depression-worldwide-1929-1933.js
@@ -1,2 +1,2 @@
 // Penguin Atlas Vol. 2 round 7.
-window.PLATES["great-depression-worldwide-1929-1933"] = {"id":"great-depression-worldwide-1929-1933","title":"The Great Depression worldwide, 1929-1933","head":"Inter-war world / Depression","folio":"184-185","viewer":"interwar2/1931/ch-great-depression","figures":[{"caption":"World depression pressure points","share":0.55,"extent":[[-170,-55],[180,75]],"projection":"naturalEarth","layers":[{"id":"hard-hit","type":"area","hist":{"year":1930,"names":["Canada","United States","Germany","Poland"]},"colour":"#6f9a63","tier":"core","legend":"Severe industrial/export shock"},{"id":"canada-dust","type":"area","polygon":[[-113,49],[-101,49.2],[-99,52],[-106,53],[-114,51.5],[-113,49]],"smooth":false,"clipToLand":true,"pattern":"hatch","colour":"#b22d2d","legend":"Canadian Prairie dust bowl"},{"id":"wall-street","type":"point","symbol":"large-city","at":[-74.01,40.71],"name":"Wall Street","labelPos":"s","tag":{"text":"1929","colour":"#6f9a63"}},{"id":"bennett","type":"point","symbol":"capital","at":[-75.7,45.42],"name":"Ottawa / Bennett","labelPos":"n","tag":{"text":"1930","colour":"#b22d2d"}},{"id":"trek","type":"arrow","colour":"#b22d2d","path":[[-123.12,49.28],[-114.07,51.05],[-104.62,50.45]]},{"id":"britain-gold","type":"point","symbol":"treaty","at":[-0.13,51.51],"name":"Britain leaves gold","labelPos":"w","tag":{"text":"1931","colour":"#4c78a8"}},{"id":"germany-unemp","type":"point","symbol":"battle","at":[13.4,52.52],"name":"German unemployment","labelPos":"e"}],"legend":{"position":"bottom-left","columns":1}},{"caption":"Depression cascade","kind":"diagram","share":0.45,"diagram":{"height":0.56,"nodes":[{"id":"crash","label":"1929\ncrash","x":0.15,"y":0.25,"w":0.18,"h":0.13,"colour":"#6f9a63"},{"id":"trade","label":"world trade\nfalls","x":0.38,"y":0.25,"w":0.2,"h":0.13,"colour":"#6f9a63"},{"id":"gold","label":"1931\ngold crisis","x":0.61,"y":0.25,"w":0.2,"h":0.13,"colour":"#4c78a8"},{"id":"politics","label":"political\nradicalisation","x":0.84,"y":0.25,"w":0.22,"h":0.13,"colour":"#555555"},{"id":"canada","label":"Canada: Prairies,\nrelief camps, trek","x":0.5,"y":0.67,"w":0.32,"h":0.15,"colour":"#b22d2d"}],"arrows":[]}}],"text":{"intro":"The crash, trade collapse, gold crisis and unemployment hit Canada, the United States and Germany hard; Canada’s Prairie drought and On-to-Ottawa Trek are foregrounded.","sections":[{"heading":"Depression","entries":[{"date":"1929-1933","text":"The crash, trade collapse, gold crisis and unemployment hit Canada, the United States and Germany hard; Canada’s Prairie drought and On-to-Ottawa Trek are foregrounded.","refs":["hard-hit","canada-dust","wall-street","bennett","trek","britain-gold","germany-unemp","crash","trade","gold","politics","canada"]}]}]},"sources":["Penguin Atlas Vol. 2 pp. 184-185; historical-basemaps world_1930. Global severity fills are interpretive."]};
+window.PLATES["great-depression-worldwide-1929-1933"] = {"id":"great-depression-worldwide-1929-1933","title":"The Great Depression worldwide, 1929-1933","head":"Inter-war world / Depression","folio":"184-185","viewer":"interwar2/1931/ch-great-depression","figures":[{"caption":"World depression pressure points","share":0.55,"extent":[[-170,-48],[180,72]],"projection":"naturalEarth","layers":[{"id":"hard-hit","type":"area","hist":{"year":1930,"names":["Canada","United States","Germany"]},"colour":"#6f9a63","tier":"core","legend":"Industrial output down about 40-50%, 1929-32"},{"id":"canada-dust","type":"area","polygon":[[-113,49],[-101,49.2],[-99,52],[-106,53],[-114,51.5],[-113,49]],"smooth":false,"clipToLand":true,"pattern":"hatch","colour":"#b22d2d","legend":"Canadian Prairie dust bowl"},{"id":"wall-street","type":"point","symbol":"large-city","at":[-74.01,40.71],"name":"Wall Street","labelPos":"s","tag":{"text":"1929","colour":"#6f9a63"}},{"id":"bennett","type":"point","symbol":"capital","at":[-75.7,45.42],"name":"Ottawa / Bennett","labelPos":"n","tag":{"text":"1930","colour":"#b22d2d"}},{"id":"trek","type":"arrow","colour":"#b22d2d","path":[[-123.12,49.28],[-114.07,51.05],[-104.62,50.45]]},{"id":"britain-gold","type":"point","symbol":"treaty","at":[-0.13,51.51],"name":"Britain leaves gold","labelPos":"w","tag":{"text":"1931","colour":"#4c78a8"}},{"id":"germany-unemp","type":"point","symbol":"battle","at":[13.4,52.52],"name":"German unemployment","labelPos":"e"},{"id":"regina","type":"point","symbol":"insurrection","at":[-104.62,50.45],"name":"Regina riot","labelPos":"w","tag":{"text":"On-to-Ottawa 1935","colour":"#b22d2d"}}],"legend":{"position":"bottom-left","columns":1},"base":{"cropToExtent":true}},{"caption":"Depression cascade","kind":"diagram","share":0.45,"diagram":{"height":0.56,"nodes":[{"id":"crash","label":"1929\ncrash","x":0.15,"y":0.25,"w":0.18,"h":0.13,"colour":"#6f9a63"},{"id":"trade","label":"world trade\nfalls","x":0.38,"y":0.25,"w":0.2,"h":0.13,"colour":"#6f9a63"},{"id":"gold","label":"1931\ngold crisis","x":0.61,"y":0.25,"w":0.2,"h":0.13,"colour":"#4c78a8"},{"id":"politics","label":"political\nradicalisation","x":0.84,"y":0.25,"w":0.22,"h":0.13,"colour":"#555555"},{"id":"canada","label":"Canada: Prairies,\nrelief camps, trek","x":0.5,"y":0.67,"w":0.32,"h":0.15,"colour":"#b22d2d"}],"arrows":[]}}],"text":{"intro":"The crash, trade collapse, gold crisis and unemployment hit Canada, the United States and Germany hard; Canada’s Prairie drought and On-to-Ottawa Trek are foregrounded.","sections":[{"heading":"Depression","entries":[{"date":"1929-1933","text":"The crash, trade collapse, gold crisis and unemployment hit Canada, the United States and Germany hard; Canada’s Prairie drought and On-to-Ottawa Trek are foregrounded.","refs":["hard-hit","canada-dust","wall-street","bennett","trek","britain-gold","germany-unemp","crash","trade","gold","politics","canada"]}]}]},"sources":["Penguin Atlas Vol. 2 pp. 184-185; historical-basemaps world_1930. Global severity fills are interpretive."]};

diff --git a/atlas/plates/fascist-italy-ethiopia-1922-1939.js b/atlas/plates/fascist-italy-ethiopia-1922-1939.js
@@ -1,2 +1,2 @@
 // Penguin Atlas Vol. 2 round 7.
-window.PLATES["fascist-italy-ethiopia-1922-1939"] = {"id":"fascist-italy-ethiopia-1922-1939","title":"Fascist Italy and Ethiopia, 1922-1939","head":"Inter-war world / Italy","folio":"158-159","viewer":"interwar2/1936/ch-fascist-italy-ethiopia","figures":[{"caption":"Italy, Libya, Ethiopia and Albania","share":0.75,"extent":[[5,-2],[45,43]],"projection":"naturalEarth","layers":[{"id":"italy","type":"area","hist":{"year":1938,"names":["Italy"]},"colour":"#b36b2e","legend":"Italy"},{"id":"libya","type":"area","hist":{"year":1938,"names":["Libya"]},"colour":"#b36b2e","opacity":0.55,"legend":"Libya under Italy"},{"id":"ethiopia","type":"area","hist":{"year":1938,"names":["Ethiopia (Italy)"]},"colour":"#b36b2e","opacity":0.7,"legend":"Ethiopia after conquest"},{"id":"albania","type":"area","hist":{"year":1938,"names":["Albania"]},"colour":"#b36b2e","pattern":"hatch","legend":"Albania occupied 1939"},{"id":"dodecanese","type":"area","polygon":[[26.8,35.4],[28.4,36.7],[29,36],[27.5,35.2],[26.8,35.4]],"smooth":false,"clipToLand":true,"colour":"#b36b2e","legend":"Dodecanese"},{"id":"addis","type":"point","symbol":"battle","at":[38.76,9.03],"name":"Addis Ababa","tag":{"text":"1936","colour":"#b36b2e"}},{"id":"ethiopia-arrow","type":"arrow","colour":"#b36b2e","path":[[38.93,15.33],[39.3,12],[38.76,9.03]],"label":"invasion 1935-36"},{"id":"tirana","type":"point","symbol":"battle","at":[19.82,41.33],"name":"Albania","tag":{"text":"Apr 1939","colour":"#b36b2e"}},{"id":"sanctions","type":"label","style":"region","text":"League sanctions fail","at":[20,12],"colour":"#666"}],"legend":{"position":"bottom-left","columns":1}},{"caption":"League test","kind":"diagram","share":0.25,"diagram":{"height":0.56,"nodes":[{"id":"it1","label":"1935\ninvasion","x":0.2,"y":0.35,"w":0.2,"h":0.14,"colour":"#b36b2e"},{"id":"it2","label":"League\nsanctions","x":0.5,"y":0.35,"w":0.22,"h":0.14,"colour":"#666"},{"id":"it3","label":"1936\nannexation","x":0.8,"y":0.35,"w":0.22,"h":0.14,"colour":"#b36b2e"}],"arrows":[]}}],"text":{"intro":"Italy holds Libya and the Dodecanese, conquers Ethiopia despite League sanctions, and occupies Albania in April 1939.","sections":[{"heading":"Italy","entries":[{"date":"1922-1939","text":"Italy holds Libya and the Dodecanese, conquers Ethiopia despite League sanctions, and occupies Albania in April 1939.","refs":["italy","libya","ethiopia","albania","dodecanese","addis","ethiopia-arrow","tirana","sanctions","it1","it2","it3"]}]}]},"sources":["Penguin Atlas Vol. 2 pp. 158-159; historical-basemaps world_1938. Dodecanese is a hard clipped island polygon."]};
+window.PLATES["fascist-italy-ethiopia-1922-1939"] = {"id":"fascist-italy-ethiopia-1922-1939","title":"Fascist Italy and Ethiopia, 1922-1939","head":"Inter-war world / Italy","folio":"158-159","viewer":"interwar2/1936/ch-fascist-italy-ethiopia","figures":[{"caption":"Italy, Libya, Ethiopia and Albania","share":0.75,"extent":[[5,-2],[45,43]],"projection":"naturalEarth","layers":[{"id":"italy","type":"area","hist":{"year":1938,"names":["Italy"]},"colour":"#b36b2e","legend":"Italy"},{"id":"libya","type":"area","hist":{"year":1938,"names":["Libya"]},"colour":"#b36b2e","opacity":0.55,"legend":"Libya under Italy"},{"id":"ethiopia","type":"area","hist":{"year":1938,"names":["Ethiopia (Italy)"]},"colour":"#b36b2e","opacity":0.7,"legend":"Ethiopia after conquest"},{"id":"albania","type":"area","hist":{"year":1938,"names":["Albania"]},"colour":"#b36b2e","pattern":"hatch","legend":"Albania occupied 1939"},{"id":"dodecanese","type":"area","polygon":[[26.8,35.4],[28.4,36.7],[29,36],[27.5,35.2],[26.8,35.4]],"smooth":false,"clipToLand":true,"colour":"#b36b2e","legend":"Dodecanese"},{"id":"addis","type":"point","symbol":"battle","at":[38.76,9.03],"name":"Addis Ababa","tag":{"text":"May 1936; League sanctions fail","colour":"#b36b2e"},"labelPos":"e"},{"id":"ethiopia-arrow","type":"arrow","colour":"#b36b2e","path":[[38.93,15.33],[39.3,12],[38.76,9.03]],"label":"invasion 1935-36"},{"id":"tirana","type":"point","symbol":"battle","at":[19.82,41.33],"name":"Albania","tag":{"text":"Apr 1939","colour":"#b36b2e"}},{"id":"graziani","type":"arrow","colour":"#b36b2e","path":[[45.3,2.05],[43.5,5.5],[42.1,9.3]],"label":"1936"}],"legend":{"position":"bottom-left","columns":1}},{"caption":"League test","kind":"diagram","share":0.25,"diagram":{"height":0.56,"nodes":[{"id":"it1","label":"1935\ninvasion","x":0.2,"y":0.35,"w":0.2,"h":0.14,"colour":"#b36b2e"},{"id":"it2","label":"League\nsanctions","x":0.5,"y":0.35,"w":0.22,"h":0.14,"colour":"#666"},{"id":"it3","label":"1936\nannexation","x":0.8,"y":0.35,"w":0.22,"h":0.14,"colour":"#b36b2e"}],"arrows":[]}}],"text":{"intro":"Italy holds Libya and the Dodecanese, conquers Ethiopia despite League sanctions, and occupies Albania in April 1939.","sections":[{"heading":"Italy","entries":[{"date":"1922-1939","text":"Italy holds Libya and the Dodecanese, conquers Ethiopia despite League sanctions, and occupies Albania in April 1939.","refs":["italy","libya","ethiopia","albania","dodecanese","addis","ethiopia-arrow","tirana","it1","it2","it3"]}]}]},"sources":["Penguin Atlas Vol. 2 pp. 158-159; historical-basemaps world_1938. Dodecanese is a hard clipped island polygon."]};
